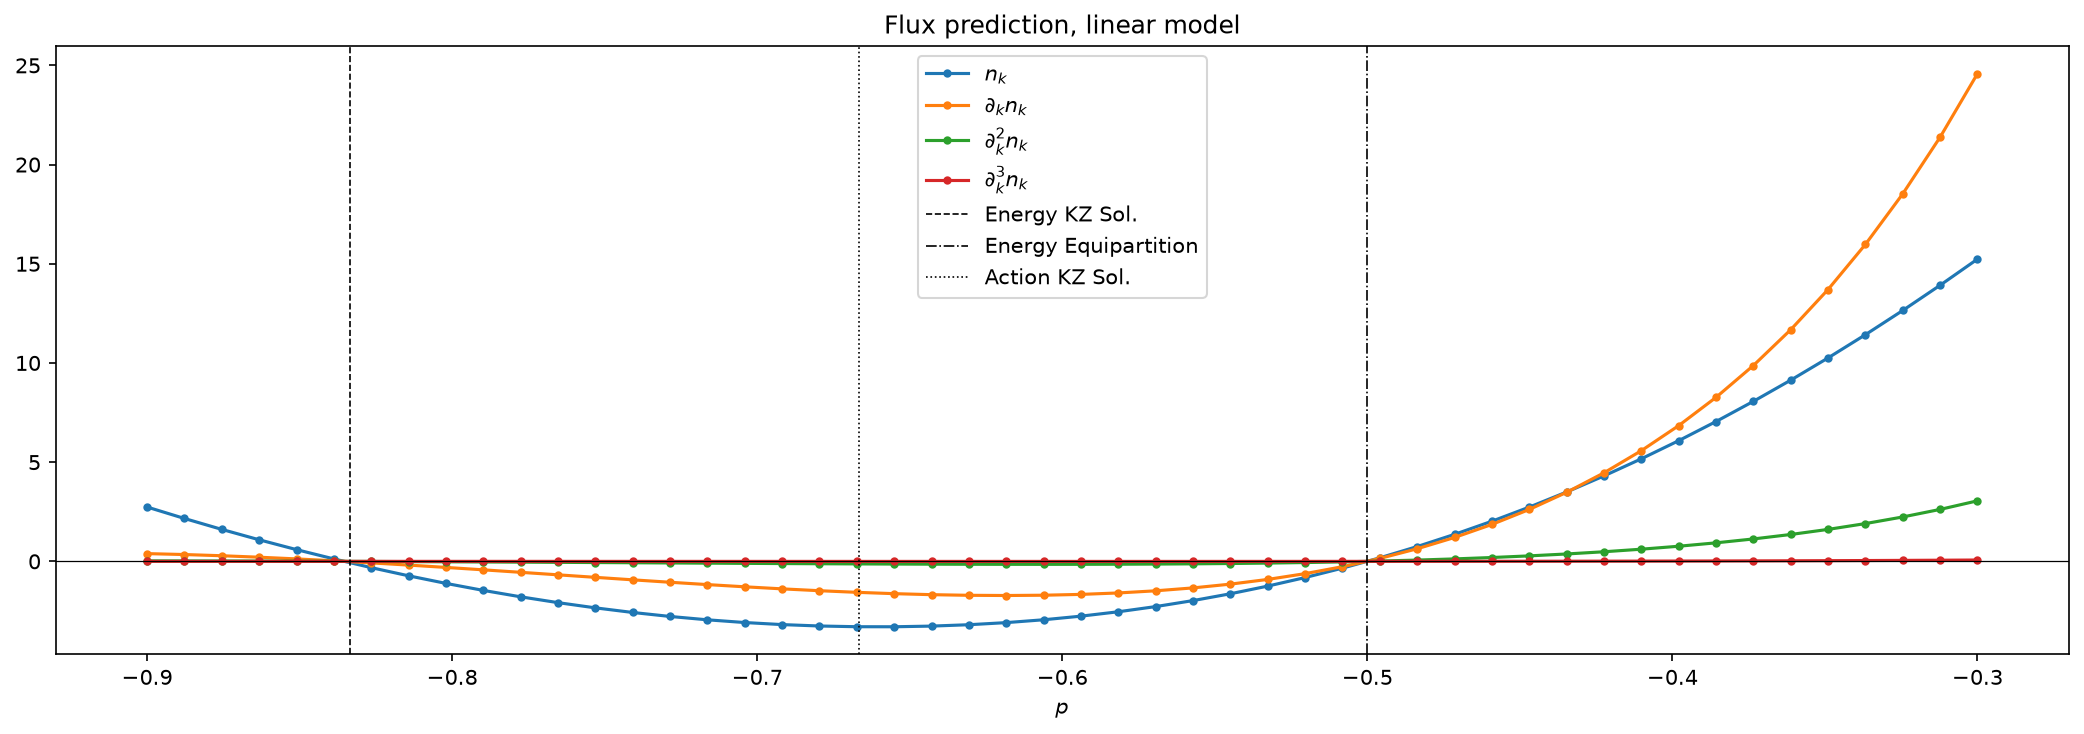
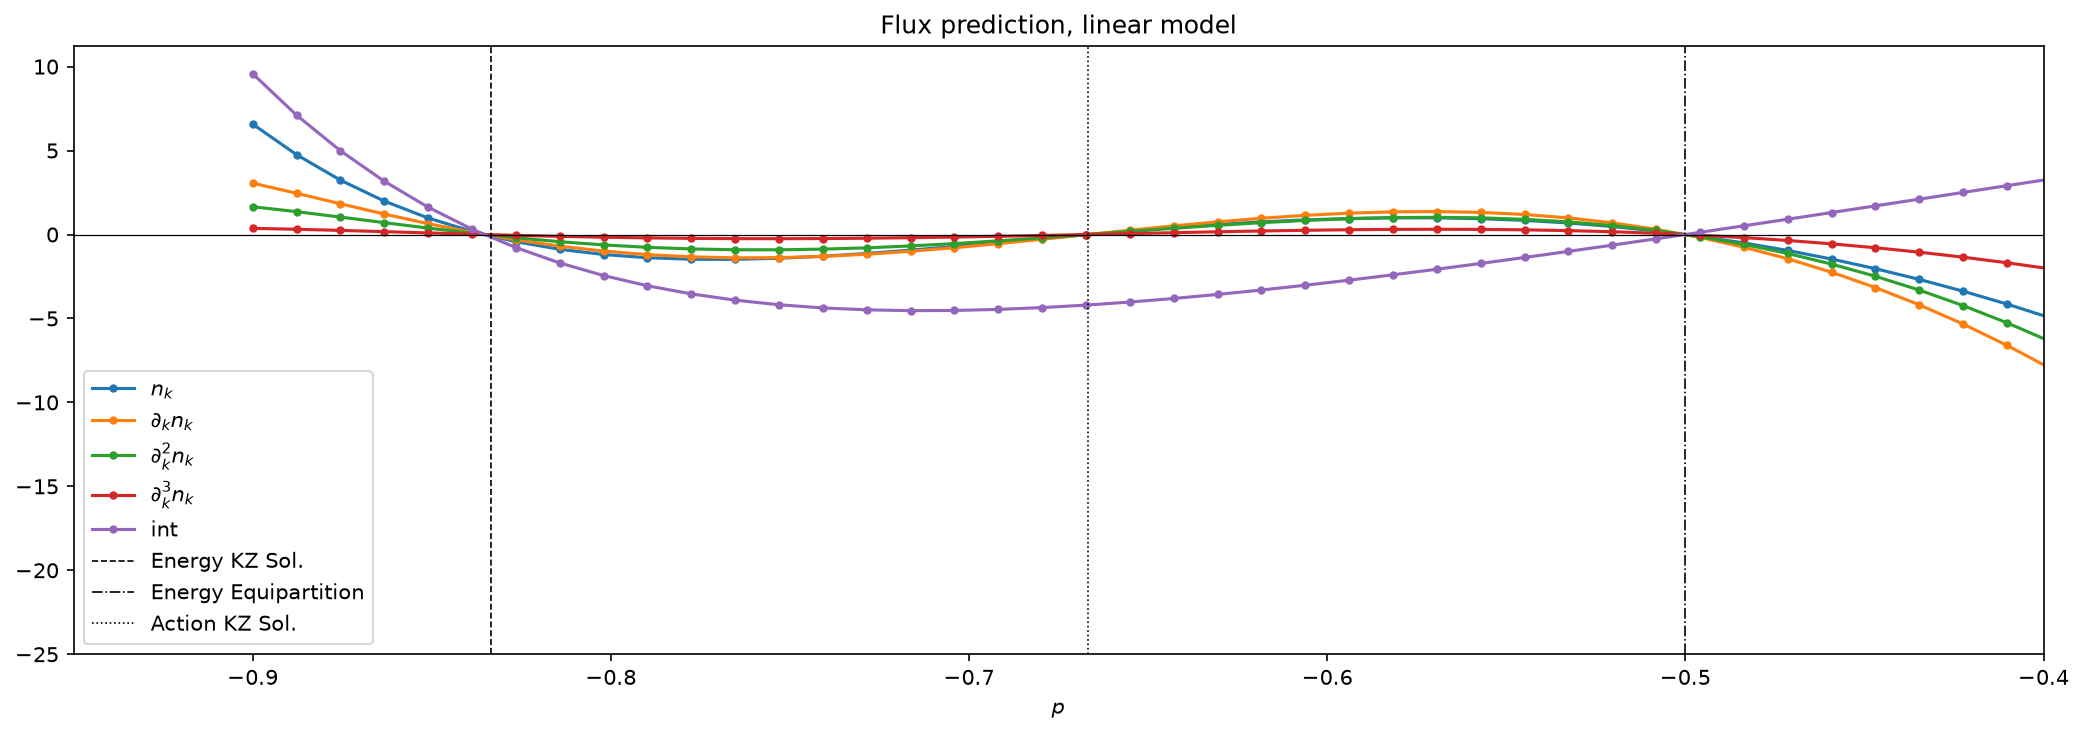
refactor: update fit_operators_at_fixed_p_linear to include intercept and return relative error

diff --git a/src/physics/linear_operator_library_mmt.py b/src/physics/linear_operator_library_mmt.py
@@ -35,11 +35,13 @@ def fit_operators_at_fixed_p_linear(p, A, k, k_min, k_max, beta=0.25,
     scaler = StandardScaler()
     X_scaled = scaler.fit_transform(X)
 
-    reg_exact = Ridge(alpha=ridge_alpha, fit_intercept=False).fit(X, F_true)
+    reg_exact = Ridge(alpha=ridge_alpha, fit_intercept=True).fit(X_scaled, F_true)
 
-    r2_exact = reg_exact.score(X, F_true)
+    r2_exact = reg_exact.score(X_scaled, F_true)
+    F_fit = reg_exact.predict(X_scaled)
+    rel_error = np.linalg.norm(F_fit - F_true) / (np.linalg.norm(F_true) + 1e-20)
 
-    return (reg_exact.coef_,  r2_exact)
+    return (reg_exact.coef_, reg_exact.intercept_, r2_exact, rel_error)
 
 def plot_coefficients_vs_p_linear(ps, A, k, k_min, k_max, beta=0.25,
                                N=300, IntN=200, max_order=3, save_path=None, show=True):
@@ -48,22 +50,24 @@ def plot_coefficients_vs_p_linear(ps, A, k, k_min, k_max, beta=0.25,
     labels = [r"$n_k$", r"$\partial_k n_k$", r"$\partial^2_k n_k$", r"$\partial^3_k n_k$"
               ][:max_order + 1]
 
-    res = { "exact": {lab: [] for lab in labels }}
+    res = { "exact": {lab: [] for lab in labels + ["int"] }}
     r2_exact_list = []
+    rel_err_exact_list = []
 
     for p in ps:
-        (coef_e, r2_e) = fit_operators_at_fixed_p_linear(
+        (coef_e, int_e, r2_e, rel_e) = fit_operators_at_fixed_p_linear(
             p, A, k, k_min, k_max, beta=beta, N=N, IntN=IntN, max_order=max_order, ridge_alpha = 1e-3
         )
         for lab, c in zip(labels, coef_e):
             res["exact"][lab].append(c)
 
-        
+        res["exact"]["int"].append(int_e)
+        rel_err_exact_list.append(rel_e)
         r2_exact_list.append(r2_e)
 
     plt.figure(figsize=(14, 5))
 
-    for lab in labels :
+    for lab in labels + ["int"] :
         plt.plot(ps, res["exact"][lab], "o-", markersize = 3, label = lab)
 
     plt.axhline(0, color="black", linewidth=0.6)
@@ -72,6 +76,7 @@ def plot_coefficients_vs_p_linear(ps, A, k, k_min, k_max, beta=0.25,
     plt.axvline(-5/6, linestyle="--", linewidth=0.8, color="black", label="Energy KZ Sol.")
     plt.axvline(-1/2, linestyle="-.", linewidth=0.8, color="black", label="Energy Equipartition")
     plt.axvline(-2/3, linestyle=":", linewidth=0.8, color="black", label="Action KZ Sol.")
+    plt.xlim(-0.95, -0.4)
     plt.legend()
 
     plt.tight_layout()

diff --git a/main_mmt.py b/main_mmt.py
@@ -67,12 +67,12 @@ test_data = splits["test"]
 #                        p=-5/6, A=1, beta=0.25, N=900, IntN=600, max_order=3, 
 #                        save_path="outputs_mmt/reconstructed_flux_mmt.png", show=False)
 
-(coef_e_l, r2_e_l) = fit_operators_at_fixed_p_linear(
+(coef_e_l, int_e_l, r2_e_l, rel_e_l) = fit_operators_at_fixed_p_linear(
     p = -2/3, A = 1, k = np.linspace(0.1, 1, 50), k_min= config.K_MIN,
     k_max = config.K_MAX, beta=0.25, N=300, IntN=200, max_order=3, ridge_alpha = 1e-3
 )
 
-print("Coefficienti (solver MMT): ", coef_e_l, "| R^2: ", r2_e_l)
+print("Coefficienti (solver MMT): ", coef_e_l, "intercetta: ", int_e_l ,"| R^2: ", r2_e_l, "errore relativo: ", rel_e_l)
 
 plot_coefficients_vs_p_linear(
     ps = np.linspace(-0.9, -0.3, 50), A = 1, k = np.linspace(0.1, 1.0, 50), beta = 0.25, 
